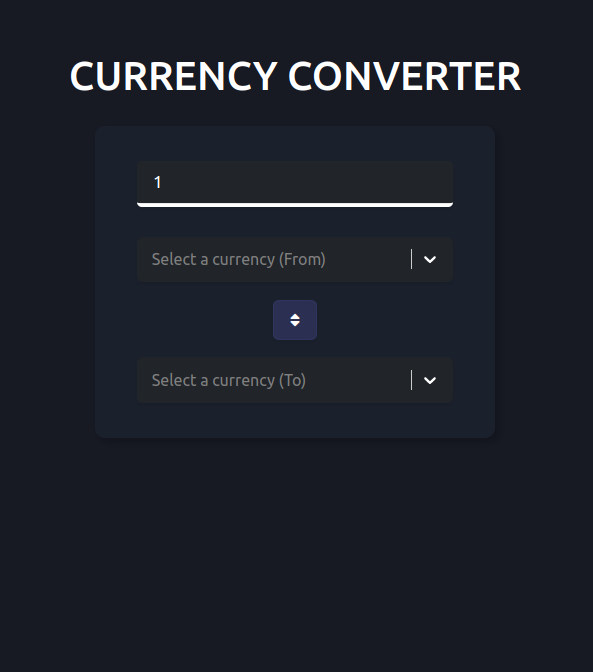
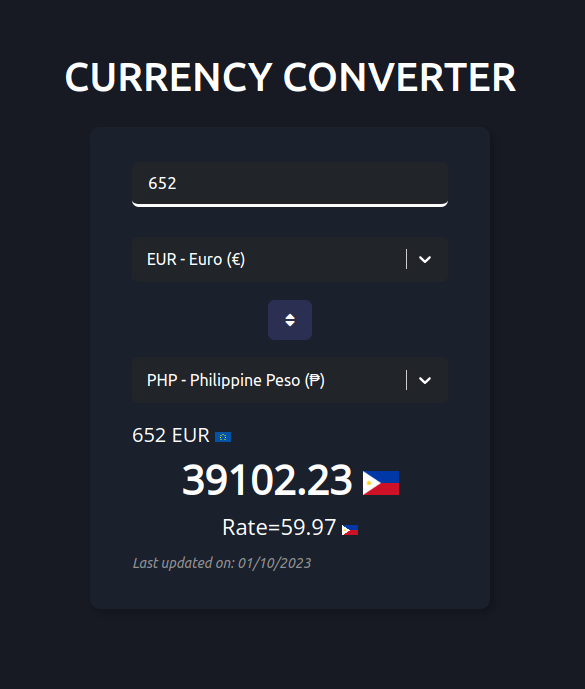
React Currency Converter

diff --git a/src/components/CurrencyConverter/CurrencyConverter.tsx b/src/components/CurrencyConverter/CurrencyConverter.tsx
@@ -7,8 +7,8 @@ import moment from "moment";
 import "./index.css";
 
 const CurrencyConverter: React.FC = () => {
-  const [from, setFrom] = useState<string>("");
-  const [into, setInto] = useState<string>("");
+  const [from, setFrom] = useState<string>("EUR - Euro (€)");
+  const [into, setInto] = useState<string>("PHP - Philippine Peso (₱)");
   const [loading, setLoading] = useState<boolean>(false);
   const [amount, setAmount] = useState<string>("1");
   const [currencyResult, setCurrencyResult] = useState<string>("");
@@ -90,7 +90,7 @@ const CurrencyConverter: React.FC = () => {
       <div className="container-fluid">
         <div className="currency-app">
           <input
-            className="form-control-lg currency-amount shadow-sm"
+            className="form-control-lg currency-amount"
             placeholder="Enter Amount"
             value={amount}
             type="number"
@@ -105,7 +105,7 @@ const CurrencyConverter: React.FC = () => {
           </div>
           <div className="currency-swap">
             <button
-              className="btn currency-swap-btn shadow-sm"
+              className="btn currency-swap-btn"
               onClick={handleSwitch}
             >
               <i className="fas fa-sort"></i>

diff --git a/src/components/CurrencyConverter/index.css b/src/components/CurrencyConverter/index.css
@@ -12,12 +12,13 @@
 
 .currency-amount {
   width: 100%;
-  border: none;
+  border: 0;
+  border-radius: 7px;
   outline: none;
   color: white;
   font-size: 17px;
   background-color: rgb(33, 37, 41);
-  border-bottom: 4px solid white;
+  border-bottom: 3px solid white;
 }
 .currency-from {
   padding-top: 30px;
@@ -31,12 +32,16 @@
 .currency-swap-btn {
   padding: 7px 16px 7px 16px;
   background-color: #323762b7;
-  border-color: #323762b7;
   cursor: pointer;
-  border-radius: 14%;
+  border-radius: 7px;
 }
 
-.currency-swap > button > i {
+.currency-swap button:focus{
+  outline: none;
+  box-shadow: none;
+}
+
+.currency-swap button i {
   color: white;
 }
 

diff --git a/src/components/Dropdown/Dropdown.tsx b/src/components/Dropdown/Dropdown.tsx
@@ -22,7 +22,7 @@ const OptionComponent: React.FC<any> = (props) => {
 const Dropdowns: React.FC<DropdownsProps> = (props) => {
   const { handleChange, placeholder, value } = props;
 
-  const selectValue = currency.find((option) => option.value === value);
+  const selectValue = currency.find((option) => option.label === value);
 
   return (
     <Select
@@ -30,7 +30,6 @@ const Dropdowns: React.FC<DropdownsProps> = (props) => {
       onChange={handleChange}
       placeholder={placeholder}
       styles={customStyles}
-      className="shadow-sm"
       value={selectValue}
       components={{ Option: OptionComponent }}
     />

diff --git a/README.md b/README.md
@@ -2,7 +2,6 @@
 
 ![](https://github.com/simranlotey/react-currency-converter/blob/master/src/components/Images/demo-1.png)
 ![](https://github.com/simranlotey/react-currency-converter/blob/master/src/components/Images/demo-2.png)
-![](https://github.com/simranlotey/react-currency-converter/blob/master/src/components/Images/demo-3.png)
 
 The React Currency Converter is a web application that enables users to perform currency conversions using the [APILayer](https://apilayer.com/). With a simple and user-friendly interface, this app allows users to select the currencies they want to convert from and to, specify the amount, and instantly get the converted result. It is built using React, TypeScript, Bootstrap, Axios, and Moment libraries.
 
